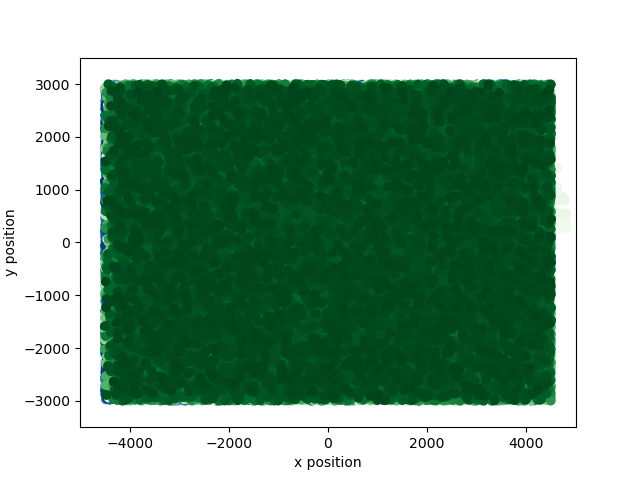
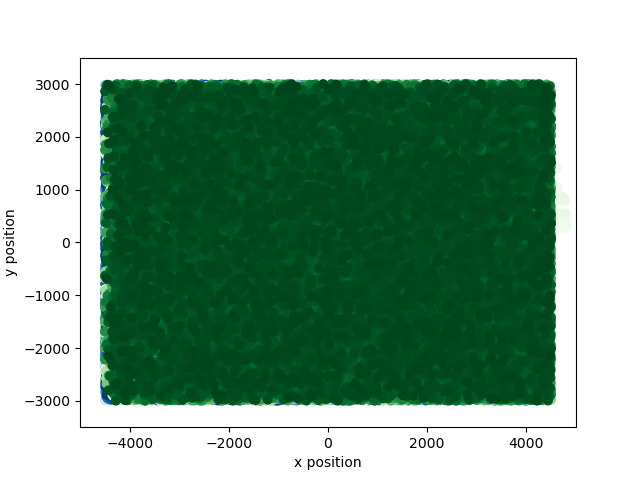
regenerate sim datasets with fixed seed

diff --git a/src/generate/sim_aug_random.py b/src/generate/sim_aug_random.py
@@ -13,7 +13,7 @@ if __name__ == "__main__":
 
                 os.system(
                     f'python ./aug_random.py '
-                    f' --policy {policy} '
+                    f' --policy {policy} --seed 0'
                     f' --observed-dataset-path ../datasets/{policy}/no_aug/{observed_dataset_size}k.hdf5 '
                     f' --augmentation-ratio {aug_ratio}'
                     f' --save-dir ../datasets/{policy}/aug_uniform/'
